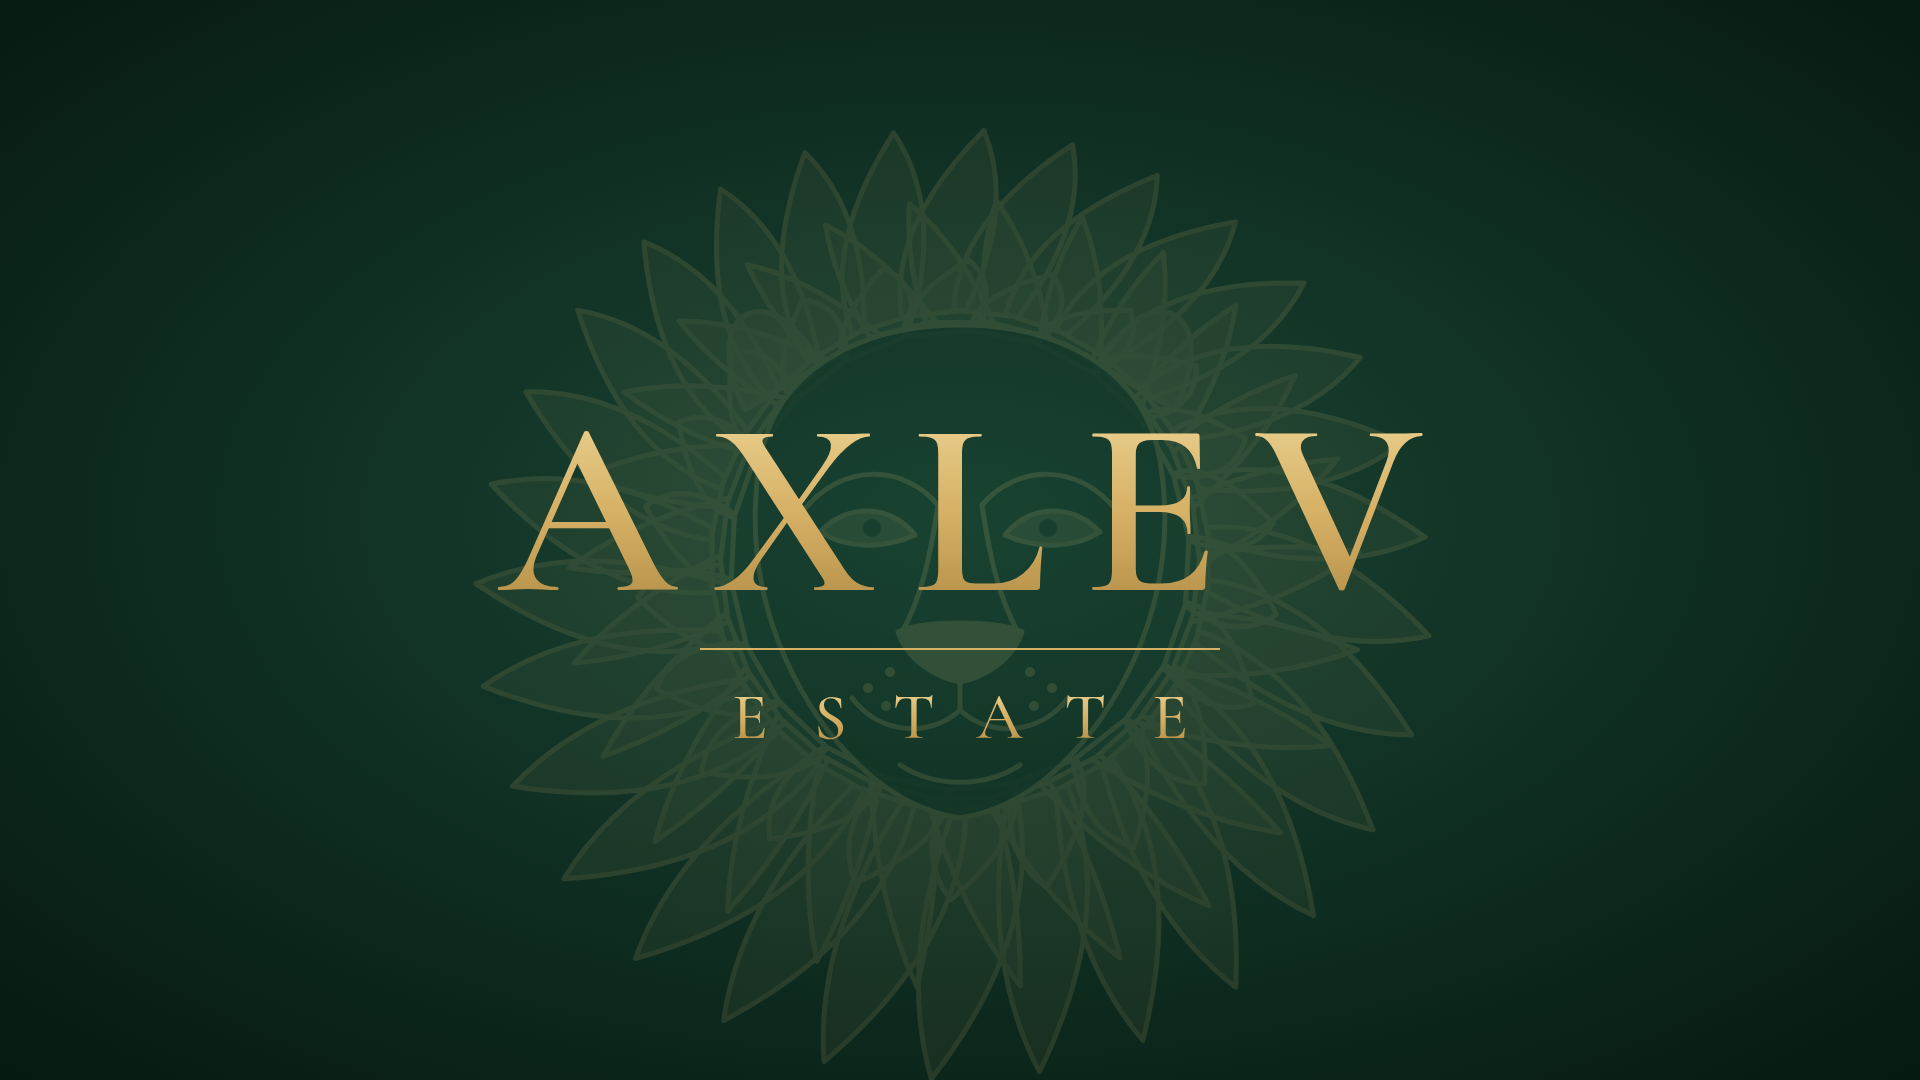
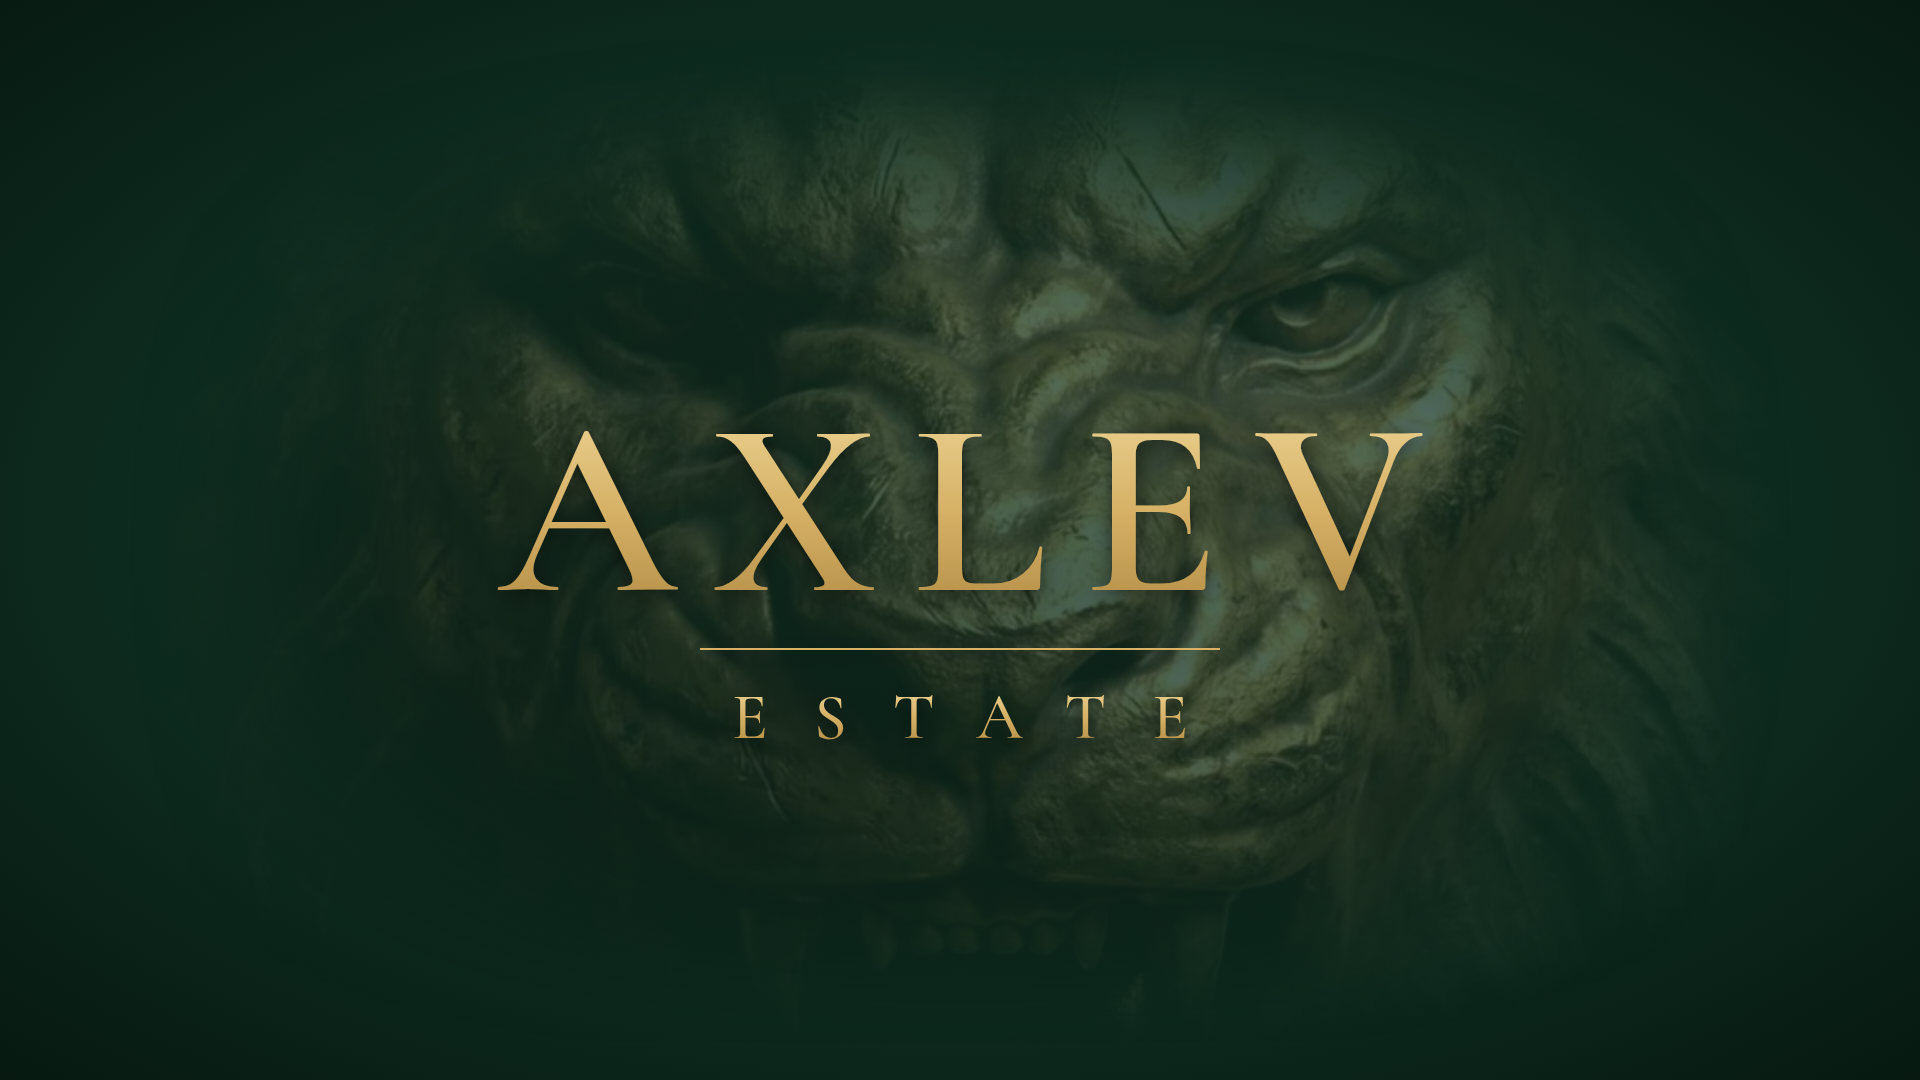
AXLEV ESTATE: лев с сайта axlev.ru вместо нарисованного
Лев вырезан со скриншота сайта (lion.py), края растворены в тёмно-зелёном фоне.

Claude-Session: https://claude.ai/code/session_01W6YPxeBNC2dMRLe4EfLtGe

diff --git a/axlev/gen.py b/axlev/gen.py
@@ -1,70 +1,5 @@
 """Генерирует axlev-estate.svg: надпись AXLEV ESTATE на тёмно-зелёном фоне
-с полупрозрачным львом (голова анфас) на заднем плане."""
-import math
-
-CX, CY = 960, 560
-
-
-def lock(angle, r_in, r_out, width, sweep):
-    """Одна прядь гривы: изогнутый язычок от r_in к r_out."""
-    def pt(r, a):
-        return CX + r * math.cos(a), CY + r * math.sin(a)
-    a_tip = angle + sweep
-    b1 = pt(r_in, angle - width)
-    b2 = pt(r_in, angle + width)
-    tip = pt(r_out, a_tip)
-    rm = (r_in + r_out) / 2
-    c1 = pt(rm, angle - width * 1.1 + sweep * 0.2)
-    c2 = pt(rm * 1.05, angle + width * 0.9 + sweep * 0.9)
-    f = lambda p: f"{p[0]:.1f},{p[1]:.1f}"
-    return f"M{f(b1)} Q{f(c1)} {f(tip)} Q{f(c2)} {f(b2)} Z"
-
-
-def mane_layer(n, r_in, r_out_fn, width, sweep, rot=0.0):
-    paths = []
-    for i in range(n):
-        a = rot + 2 * math.pi * i / n
-        paths.append(lock(a, r_in, r_out_fn(a), width, sweep))
-    return " ".join(paths)
-
-
-# грива длиннее по бокам и снизу, короче на макушке
-def outer(base, amp):
-    return lambda a: base + amp * (0.5 + 0.5 * math.sin(a))  # sin>0 — низ
-
-mane_back = mane_layer(30, 250, outer(430, 90), 0.13, 0.16)
-mane_mid = mane_layer(26, 240, outer(360, 70), 0.14, -0.14, rot=0.12)
-mane_front = mane_layer(22, 230, outer(300, 40), 0.15, 0.12, rot=0.05)
-
-c = CX
-y = CY
-face = (f"M{c},{y-235} C{c+100},{y-235} {c+185},{y-190} {c+200},{y-100} "
-        f"C{c+215},{y-10} {c+195},{y+80} {c+140},{y+160} "
-        f"C{c+100},{y+215} {c+55},{y+250} {c},{y+258} "
-        f"C{c-55},{y+250} {c-100},{y+215} {c-140},{y+160} "
-        f"C{c-195},{y+80} {c-215},{y-10} {c-200},{y-100} "
-        f"C{c-185},{y-190} {c-100},{y-235} {c},{y-235} Z")
-ears = (f"M{c-140},{y-195} C{c-185},{y-285} {c-265},{y-255} {c-215},{y-150} Z "
-        f"M{c+140},{y-195} C{c+185},{y-285} {c+265},{y-255} {c+215},{y-150} Z")
-brow = (f"M{c-160},{y-45} C{c-120},{y-100} {c-55},{y-95} {c-22},{y-55} "
-        f"M{c+160},{y-45} C{c+120},{y-100} {c+55},{y-95} {c+22},{y-55}")
-eyes = (f"M{c-140},{y-28} C{c-112},{y-58} {c-68},{y-55} {c-45},{y-25} "
-        f"C{c-78},{y-10} {c-115},{y-12} {c-140},{y-28} Z "
-        f"M{c+140},{y-28} C{c+112},{y-58} {c+68},{y-55} {c+45},{y-25} "
-        f"C{c+78},{y-10} {c+115},{y-12} {c+140},{y-28} Z")
-pupils = f'<circle cx="{c-88}" cy="{y-32}" r="9"/><circle cx="{c+88}" cy="{y-32}" r="9"/>'
-bridge = (f"M{c-22},{y-55} C{c-30},{y} {c-40},{y+40} {c-58},{y+72} "
-          f"M{c+22},{y-55} C{c+30},{y} {c+40},{y+40} {c+58},{y+72}")
-nose = (f"M{c-62},{y+72} C{c-40},{y+60} {c+40},{y+60} {c+62},{y+72} "
-        f"C{c+52},{y+102} {c+22},{y+118} {c},{y+122} "
-        f"C{c-22},{y+118} {c-52},{y+102} {c-62},{y+72} Z")
-muzzle = (f"M{c},{y+122} L{c},{y+150} "
-          f"M{c},{y+150} C{c-30},{y+178} {c-80},{y+175} {c-108},{y+138} "
-          f"M{c},{y+150} C{c+30},{y+178} {c+80},{y+175} {c+108},{y+138} "
-          f"M{c-60},{y+205} C{c-25},{y+228} {c+25},{y+228} {c+60},{y+205}")
-whisker_dots = "".join(
-    f'<circle cx="{c + s * dx}" cy="{y + dy}" r="5"/>'
-    for s in (-1, 1) for dx, dy in ((70, 112), (92, 128), (74, 146)))
+с полупрозрачным львом с сайта axlev.ru (слой lion-layer.png из lion.py)."""
 
 GOLD = "#e6c77e"
 svg = f'''<svg xmlns="http://www.w3.org/2000/svg" viewBox="0 0 1920 1080" width="1920" height="1080">
@@ -80,27 +15,22 @@ svg = f'''<svg xmlns="http://www.w3.org/2000/svg" viewBox="0 0 1920 1080" width=
       <stop offset="0.5" stop-color="#d6b166"/>
       <stop offset="1" stop-color="#a47e38"/>
     </linearGradient>
+    <radialGradient id="vignette" cx="50%" cy="55%" r="45%">
+      <stop offset="0" stop-color="#06170f" stop-opacity="0.35"/>
+      <stop offset="1" stop-color="#06170f" stop-opacity="0"/>
+    </radialGradient>
+    <filter id="shadow" x="-10%" y="-30%" width="120%" height="160%">
+      <feDropShadow dx="0" dy="4" stdDeviation="10" flood-color="#000" flood-opacity="0.55"/>
+    </filter>
   </defs>
   <rect width="1920" height="1080" fill="url(#bg)"/>
 
-  <!-- полупрозрачный лев -->
-  <g opacity="0.13" stroke="{GOLD}" stroke-width="5" stroke-linejoin="round" stroke-linecap="round">
-    <path d="{mane_back}" fill="{GOLD}" fill-opacity="0.45"/>
-    <path d="{mane_mid}" fill="{GOLD}" fill-opacity="0.3"/>
-    <path d="{mane_front}" fill="{GOLD}" fill-opacity="0.2"/>
-    <path d="{ears}" fill="{GOLD}" fill-opacity="0.5"/>
-    <path d="{face}" fill="#0e2c20" fill-opacity="0.85"/>
-    <path d="{brow}" fill="none"/>
-    <path d="{eyes}" fill="{GOLD}" fill-opacity="0.6"/>
-    <g fill="#0e2c20" stroke="none">{pupils}</g>
-    <path d="{bridge}" fill="none"/>
-    <path d="{nose}" fill="{GOLD}"/>
-    <path d="{muzzle}" fill="none"/>
-    <g fill="{GOLD}" stroke="none">{whisker_dots}</g>
-  </g>
+  <!-- полупрозрачный лев с axlev.ru (слой делает lion.py) -->
+  <image href="lion-layer.png" x="110" y="40" width="1700" height="1002" opacity="0.34"/>
+  <rect width="1920" height="1080" fill="url(#vignette)"/>
 
   <!-- надпись -->
-  <g font-family="'Cormorant Garamond', 'Times New Roman', serif" text-anchor="middle" fill="url(#gold)">
+  <g font-family="'Cormorant Garamond', 'Times New Roman', serif" text-anchor="middle" fill="url(#gold)" filter="url(#shadow)">
     <text x="978" y="590" font-size="250" font-weight="600" letter-spacing="36">AXLEV</text>
     <rect x="700" y="648" width="520" height="2" fill="#d6b166"/>
     <text x="983" y="738" font-size="66" font-weight="500" letter-spacing="46">ESTATE</text>

diff --git a/axlev/lion.py b/axlev/lion.py
@@ -1,0 +1,20 @@
+"""Вырезает льва со скриншота axlev.ru и делает слой с мягко растворяющимися краями."""
+from PIL import Image, ImageChops, ImageDraw, ImageFilter
+
+src = Image.open("site-screenshot.jpg").convert("RGB")
+# область без меню, адреса и нижних надписей сайта
+lion = src.crop((300, 90, 1640, 880))
+w, h = lion.size
+
+# маска: эллипс с сильно размытым краем
+mask = Image.new("L", (w, h), 0)
+ImageDraw.Draw(mask).ellipse((w * 0.1, h * 0.1, w * 0.9, h * 0.92), fill=255)
+mask = mask.filter(ImageFilter.GaussianBlur(80))
+# гарантированно прозрачные края, чтобы не было видно границ картинки
+fade = Image.new("L", (w, h), 0)
+ImageDraw.Draw(fade).rectangle((40, 40, w - 40, h - 40), fill=255)
+mask = ImageChops.multiply(mask, fade.filter(ImageFilter.GaussianBlur(30)))
+
+lion.putalpha(mask)
+lion.save("lion-layer.png")
+print(w, h)
